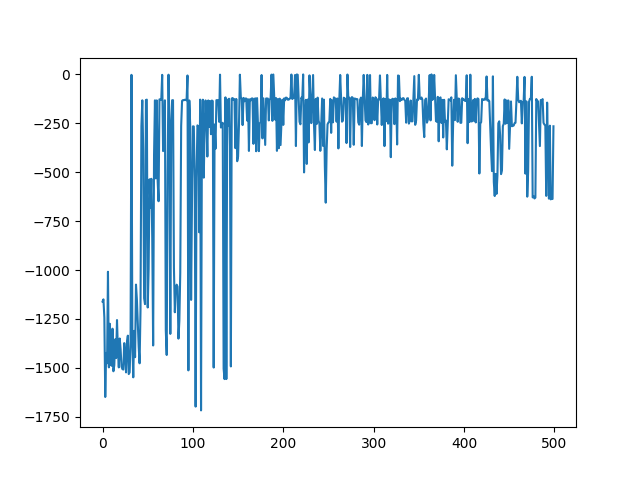
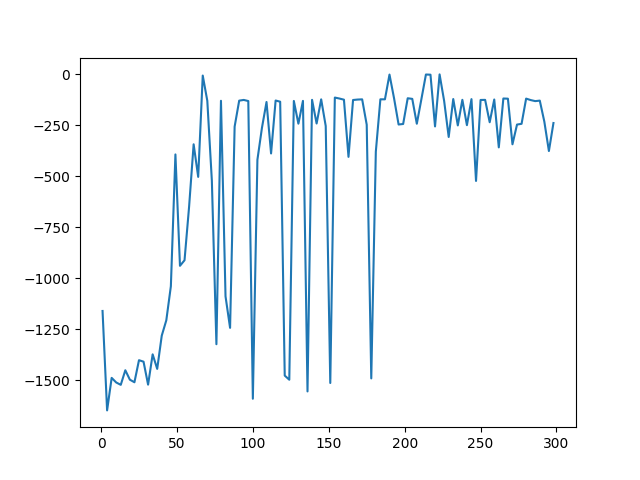
project added

diff --git a/pendulam/pendulam-v0/ddpg.py b/pendulam/pendulam-v0/ddpg.py
@@ -10,7 +10,7 @@ from critic import CriticNetwork
 from replay_buffer import ReplayBuffer
 
 
-def train(sess, env, actor, critic, actor_noise, buffer_size, min_batch):
+def train(sess, env, actor, critic, actor_noise, buffer_size, min_batch, ep):
 
     sess.run(tf.global_variables_initializer())
 
@@ -21,8 +21,8 @@ def train(sess, env, actor, critic, actor_noise, buffer_size, min_batch):
     # Initialize replay memory
     replay_buffer = ReplayBuffer(buffer_size, 0)
 
-    max_episodes = 500
-    max_steps = 2000
+    max_episodes = ep
+    max_steps = 1000
     score_list = []
 
     for i in range(max_episodes):
@@ -84,6 +84,7 @@ if __name__ == '__main__':
         np.random.seed(0)
         tf.set_random_seed(0)
 
+        ep = 300
         tau = 0.001
         gamma = 0.99
         min_batch = 64
@@ -99,7 +100,7 @@ if __name__ == '__main__':
         actor = ActorNetwork(sess, state_dim, action_dim, action_bound, actor_lr, tau, min_batch)
         critic = CriticNetwork(sess, state_dim, action_dim, critic_lr, tau, gamma, actor.get_num_trainable_vars())
 
-        scores = train(sess, env, actor, critic, actor_noise, buffer_size, min_batch)
-        plt.plot(scores)
+        scores = train(sess, env, actor, critic, actor_noise, buffer_size, min_batch, ep)
+        plt.plot([i + 1 for i in range(0, ep, 3)], scores[::3])
         plt.show()
 

diff --git a/Pendulum-v0.py b/Pendulum-v0.py
@@ -15,7 +15,7 @@ from keras.layers.normalization import BatchNormalization
 from keras.layers import Dense, add, Input, Activation, Lambda
 
 np.random.seed(0)
-env = gym.make('Pendulum-v0')
+env = gym.make('Acrobot-v1')
 
 
 class Actor:
@@ -244,13 +244,13 @@ class DDPG:
 
 if __name__ == '__main__':
 
-    print(env.action_space.shape[0], env.observation_space.shape[0])
+    print(env.action_space.shape, env.observation_space.shape)
     state_size = env.observation_space.shape[0]
     action_size = env.action_space.shape[0]
 
     loss = []
     episodes = 500
-    max_steps = 1000
+    max_steps = 2000
     agent = DDPG()
     for e in range(episodes):
         state = env.reset()

diff --git a/acrobot-v1.py b/acrobot-v1.py
@@ -15,7 +15,7 @@ from keras.optimizers import adam
 import matplotlib.pyplot as plt
 
 import numpy as np
-env = gym.make('CartPole-v0')
+env = gym.make('Acrobot-v1')
 env.seed(0)
 np.random.seed(0)
 
@@ -123,7 +123,7 @@ def random_policy(episode, step):
 
 if __name__ == '__main__':
 
-    ep = 10
+    ep = 200
     loss = train_dqn(ep)
     plt.plot([i+1 for i in range(0, ep, 2)], loss[::2])
     plt.show()
